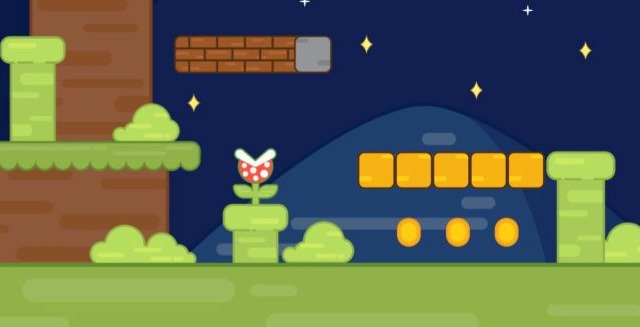
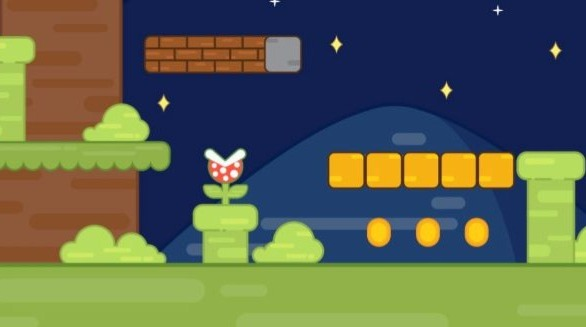
Larger desktop fixes, plus tveaks överallt med HERO tror jag börjat få grepp om den lite mer nu

diff --git a/css/homepage.css b/css/homepage.css
@@ -8,11 +8,11 @@ background-color: black
 
 #wrapper {
     width: 100%;
+    margin-top:7.9rem;
 }
 
 #main-content {
     width: 100%;
-    /* overflow: hidden; */
     background-color: black;
     display: grid;
     justify-content: center;
@@ -31,10 +31,10 @@ background-color: black
  }
 
 .hero-mobile-tablet {
-    background-image: url(../img/Homepage/Hero-slider-background_mobile.JPG);
-    background-size: 80vh;
+    background-image: url(../img/Homepage/Hero-slider-background_mobile2.JPG);
+    background-size: 100%;
     background-repeat: no-repeat;
-    min-height: 100%;
+    min-height: 20vh;
     display:flex; 
     justify-content: center;
 }
@@ -51,6 +51,13 @@ background-color: black
     transition: background 0.15s ease, transform 0.15s ease;
 }
 
+.hero-button1:hover {
+    background: var(--red);
+    transform: scale(1.05);
+    opacity: 1;
+    color: var(--black);
+}
+
 .hero-text {
     color: white;
     font-family: 'VT323', monospace;
@@ -63,24 +70,17 @@ background-color: black
 .hero-text > h1 { 
     background-color: var(--black);
     margin-bottom:2rem;
-    padding: 1rem;
+    padding: 0.3rem;
     border: 3px solid var(--red);
 }
 
-.hero-text p {
-    background-color: var(--black);
-    font-size: var(--font-size-general);
-    padding-bottom: 0.5rem;
-}
-
-/* .hero-banner {
+.hero-banner {
     background-color: var(--red);
     min-width: 100%;
-    margin: 0 auto;
+    margin-top: 0.8rem;
     text-align: center;
-    border-bottom-left-radius: 1.5rem;
-    border-bottom-right-radius: 1.5rem;
-} */
+
+}
 
 
     /* -- PRODUCT SECTION -- */
@@ -89,11 +89,9 @@ background-color: black
     background-color: black;
     padding-top: 2rem;
     padding-bottom: 2rem;
-    
     display:grid;
     grid-template-columns: column;
-    font-size: var(--font-size-general);
-    
+    font-size: var(--font-size-general);    
 }
 
 .product-section h2 {
@@ -113,7 +111,7 @@ background-color: black
 }
 
 .product-card {
-    height: 18.75rem; /* Ca 300 px */
+    min-height: 18.75rem; /* Ca 300 px */
     border: 3px solid var(--red);
     border-radius: 1.5rem;
     padding: 1rem;
@@ -145,9 +143,14 @@ footer {
     /* -- TABLET -- min 768px -- */
 @media screen and (min-width:720px) {
 
+#wrapper {
+    margin-top:4.7rem;
+}
+
 .hero-mobile-tablet {
-    background-image: url(../img/Homepage/Hero-slider-background_mobile.JPG);
+    background-image: url(../img/Homepage/Hero-slider-background_tablet.JPG);
     background-size: 100%;
+    min-height: 40vh;
 
 }
 
@@ -156,13 +159,18 @@ footer {
     font-family: 'VT323', monospace;
     text-align: center;
     font-size: var(--font-size-general);  
-    margin-top: 2rem;
+    margin-top: 1rem;
 }
 
 .hero-text > h1 { 
     background-color: var(--black);
+    padding: 0.2rem;
     margin-bottom:0;
-    padding: 1rem;
+    border:none;
+    border-left: 2px solid red;
+    border-right: 2px solid red;
+    border-top: 2px solid red;
+    
     
 }
 
@@ -171,31 +179,22 @@ footer {
     background-color: var(--black);
     font-size: var(--font-size-large);
     padding-bottom: 0.5rem;
+    border-left: 2px solid red;
+    border-right: 2px solid red;
+    border-bottom: 2px solid red;
 }
 .hero-button1 {
-    background: var(--black);
-    font-size: var(--font-size-large);
-    font-family: 'VT323', monospace;
-    border: 3px solid var(--red);
-    color: var(--white);
     padding: 0.55rem 0.8rem;
-    border-radius: 0.5rem;
-    font-weight: 700;
-    cursor: pointer;
-    transition: background 0.15s ease, transform 0.15s ease;
     margin-top: 1rem;
 }
-    /* .hero-banner {
+.hero-banner {
     background-color: var(--red);
     max-width: 100vh;
     margin: 0 auto;
     padding: 0.5rem;
     text-align: center;
     color: white;
-    font-size: var(--font-size-large);
-    border-bottom-left-radius: 1.5rem;
-    border-bottom-right-radius: 1.5rem;
-} */
+}
 
 .product-row {
     display:grid;
@@ -233,6 +232,7 @@ footer {
     max-height: 40vh;
     overflow: hidden;
     display:flex;
+    
 }
 
 .hero-carousel {
@@ -243,16 +243,17 @@ footer {
     max-height: 70%;
     margin: 0 auto;
     animation: slider-animation 15s infinite alternate; 
+
 }
 
 .slider-1, .slider-2, .slider-3 {
     display: flex;
     width: calc(100% /3);
-    height: 60vh;
+    height: 45vh;
     object-fit: cover;
     aspect-ratio: 16 / 9;
     overflow-x: auto;
-}    
+}        
 
 @keyframes slider-animation {
     0%{ transform: translateX(0); 
@@ -267,19 +268,19 @@ footer {
 
 .slider-1 {
     background-image: url(../img/Homepage/Hero-slider-background_test3.JPG);
-    background-size: 112%;
+    background-size: 137%;
     background-repeat: no-repeat;
 }
 
 .slider-2 {
     background-image: url(../img/Homepage/HERO-slide2.JPG);
-    background-size: 100%;
+    background-size: 122%;
     background-repeat: no-repeat;
 }
 
 .slider-3 {
     background-image: url(../img//Homepage/SNES-background_test2.PNG);
-    background-size: 100%;
+    background-size: 124%;
     background-repeat: no-repeat;
 }
 
@@ -287,24 +288,21 @@ footer {
     color: white;
     font-family: 'VT323', monospace;
     text-align: center;
-    /* font-size: var(--font-size-large); */
+    font-size: var(--font-size-large);
     margin-bottom:0;
     margin-left: 1rem;  
+
 
 }
 
 .hero-text > h1 { 
     background-color: var(--black);
-    border: 2px solid red;
-    border-bottom:none;
 }
 
 .hero-text p {
     background-color: var(--black);
     font-size: var(--font-size-general);
     padding-bottom: 0.5rem;
-    border: 2px solid red;
-    border-top:none;
 }
 
 .hero-button1, .hero-button2, .hero-button3 {
@@ -328,21 +326,22 @@ footer {
     color: var(--black);
 }
 
+/* .hero-banner {
+    background-color: var(--red);
+    max-width: 100vh;
+    margin: 0 auto;
+    padding: 0.5rem;
+    text-align: center;
+    color: white;
+} */
+
 .product-row {
     display: grid;
     grid-template-columns: repeat(2, minmax(0, 1fr));
     margin: 1.5rem;
+       
 }
 
-/* .hero-banner {
-    background-color: var(--red);
-    min-width: 100%;
-    margin: 0 auto;
-    padding: 0.5rem;
-    text-align: center;
-    border-bottom-left-radius: 1.5rem;
-    border-bottom-right-radius: 1.5rem;
-}  */
 }
 
     /* -- LARGE DESKTOP -- min 1200 px --*/
@@ -350,6 +349,9 @@ footer {
 @media screen and (min-width:1200px) {
 
     /* -- HERO -- */
+    .slider-1, .slider-2, .slider-3 {
+    height: 80vh;
+} 
 
 .slider-1 {
     background-image: url(../img/Homepage/Hero-slider-background_test2.JPG);
@@ -380,25 +382,31 @@ footer {
  /* Larger desktop - To make the HERO-slider work a bit better on even larger desktops */
 
  @media screen and (min-width: 1340px) {
-    #wrapper{
+#wrapper{
        grid-template-columns: 2fr 6fr 2fr; 
     }
 
-    .slider-1 {
+.slider-1, .slider-2, .slider-3 {
+
+    height: 80vh;
+}    
+  
+
+.slider-1 {
     background-image: url(../img/Homepage/Hero-slider-background_test2.JPG);
-    background-size: 140%;
+    background-size: 100%;
     background-repeat: no-repeat;
 }
 
 .slider-2 {
     background-image: url(../img//Homepage/HERO-slide2.JPG);
-    background-size: 140%;
+    background-size: 100%;
     background-repeat: no-repeat;
 }
 
 .slider-3 {
     background-image: url(../img//Homepage/SNES-background_test2.PNG);
-    background-size: 140%;
+    background-size: 100%;
     background-repeat: no-repeat;
 }
  }

diff --git a/homepage.html b/homepage.html
@@ -67,6 +67,9 @@
     </div>
         
   <div id="main-content">
+                <div class="hero-banner">
+            <h2>Fri frakt vid köp över 799 kr</h2>
+            </div>
       <!-- HERO mobile + tablet -->
       <div class=hero-mobile-tablet>
                   <div class="hero-text">
@@ -116,10 +119,8 @@
           </div>
 
       </div>
-<!-- 
-            <div class="hero-banner">
-            <h2>Fri frakt vid köp över 500 kr!</h2>
-            </div> -->
+
+
 
           <!-- PRODUCT SECTION -->
 
